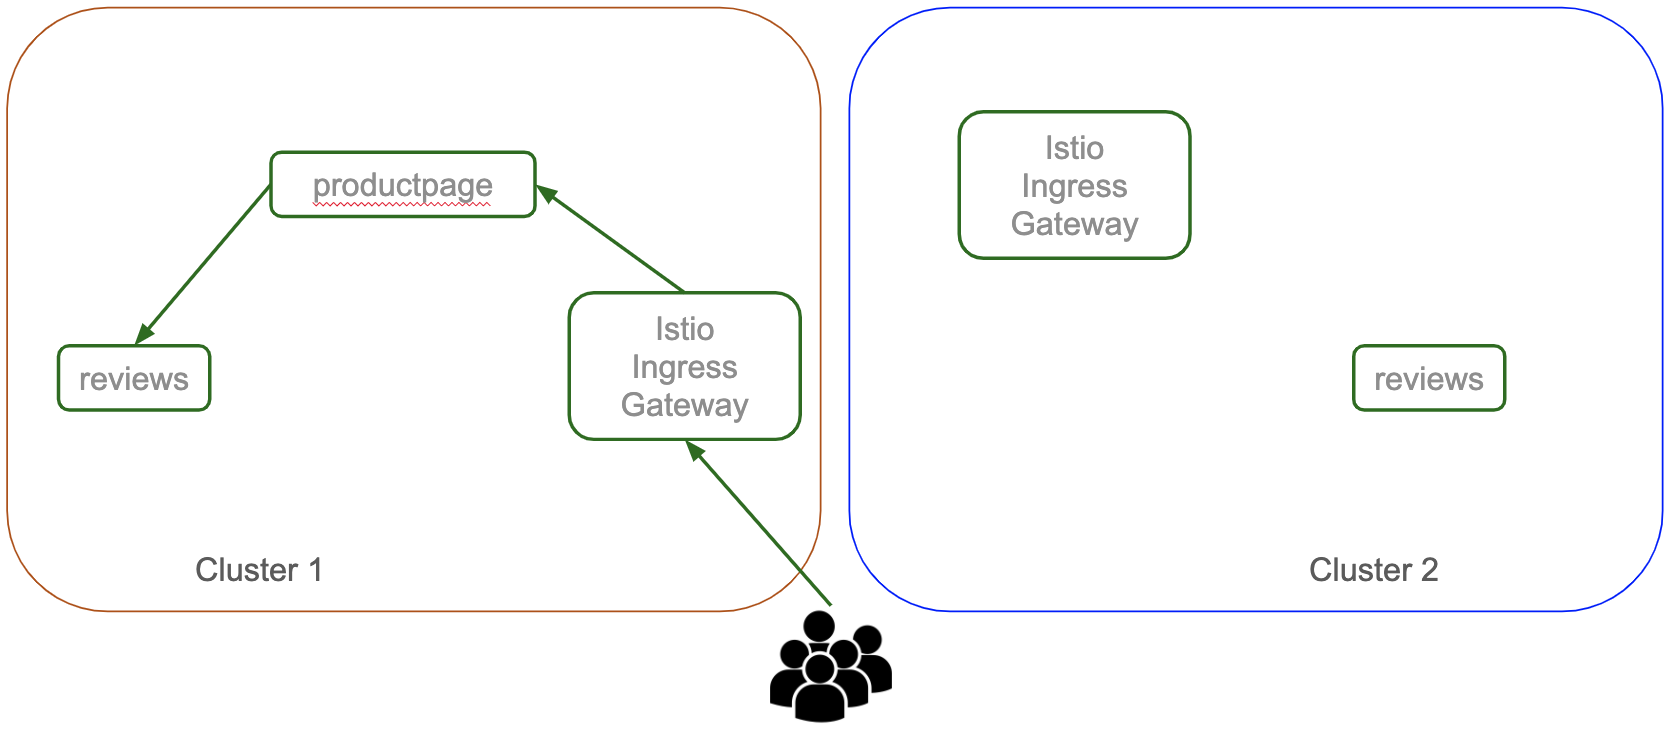
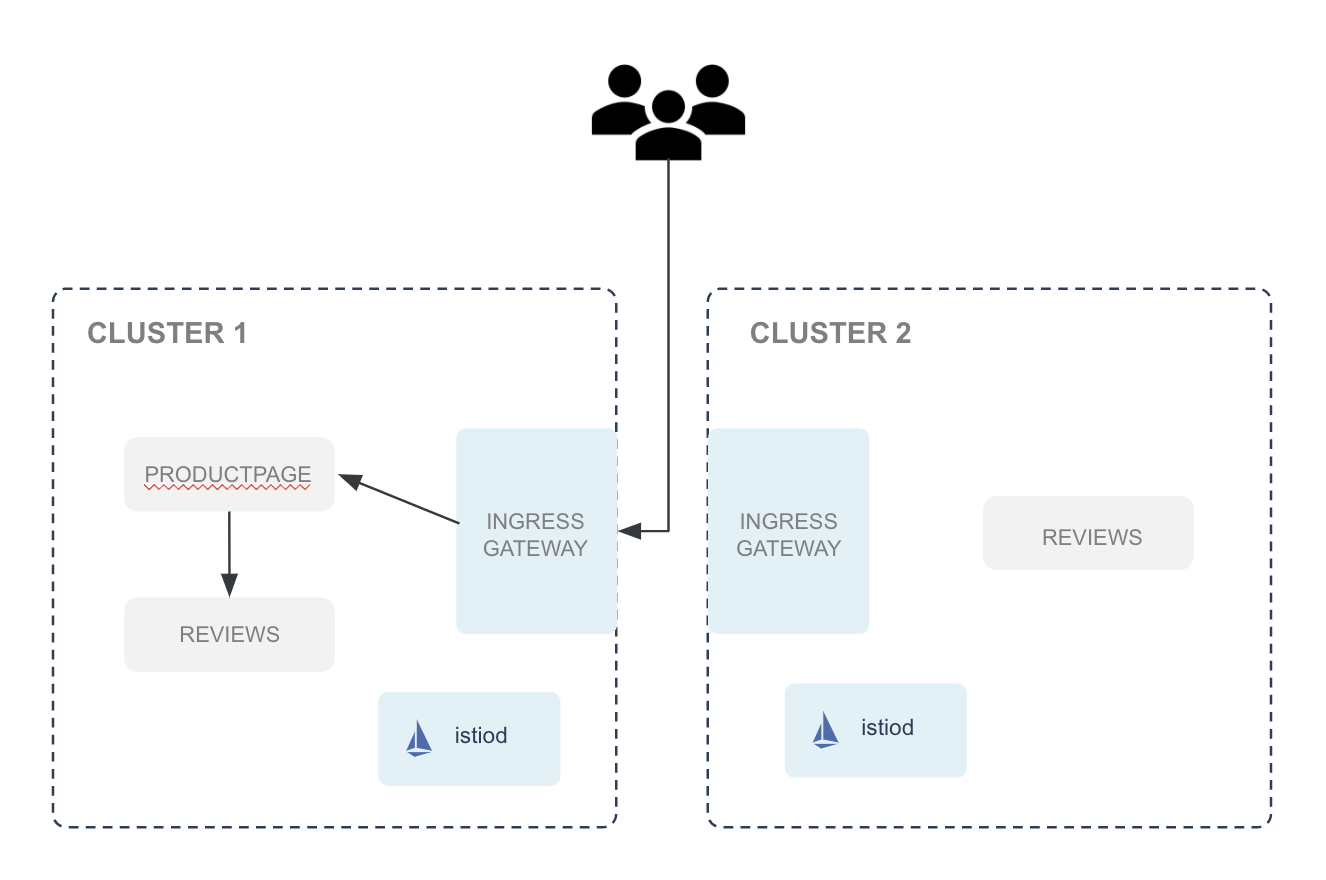
Updating the SMH images

diff --git a/smh/README.md b/smh/README.md
@@ -1080,6 +1080,8 @@ Refresh the page another time and all the services should now work:
 
 On the first cluster, the `v3` version of the `reviews` micro service doesn't exist, so we're going to redirect some of the traffic to the second cluster to make it available.
 
+![Multicluster traffic](images/multicluster-traffic.png)
+
 Let's create the following TrafficPolicy:
 
 ```bash
@@ -1370,6 +1372,8 @@ We've seen in the previous labs how the Istio Ingressgateway can be used for mul
 While the Istio Ingressgateway can also be used to expose your applications to the outside world, it doesn't provide all the features most of the people need (external authenticaion, rate limiting, ...).
 
 Gloo is a feature-rich next-generation API gateway which provides these features. Gloo is exceptional in its function-level routing; its support for legacy apps, microservices and serverless; its discovery capabilities; its numerous features; and its tight integration with leading open-source projects. Gloo is uniquely designed to support hybrid applications, in which multiple technologies, architectures, protocols, and clouds can coexist.
+
+![Gloo SMH](images/gloo-smh-1.png)
 
 Let's deploy Gloo on the fist cluster:
 
